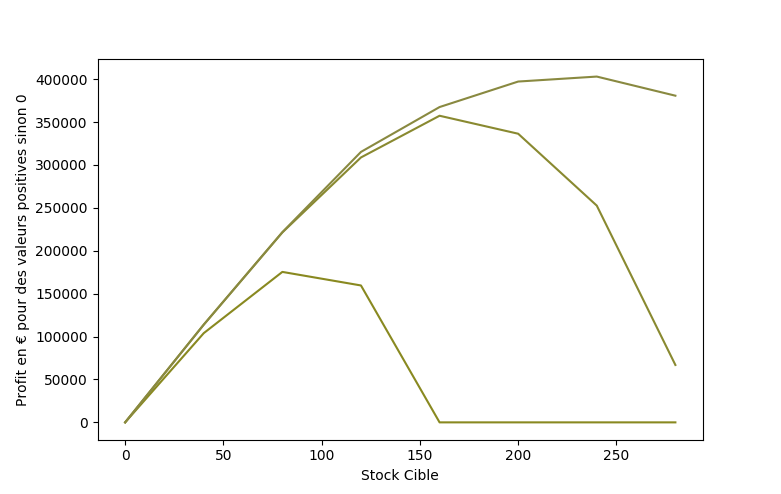
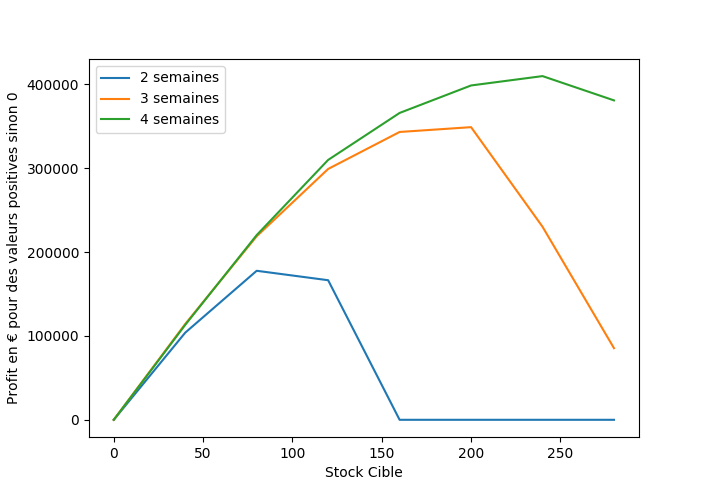
legends

diff --git a/simulation.py b/simulation.py
@@ -37,7 +37,9 @@ def prixToDemandeMoyenne(prix):
     #a=17719
     #p=-0.579
     if prix>0 :
-        volume=(float(prix)/17719)**(-1/0.579)#on a le volume par an
+        #volume=(float(prix)/17719)**(-1/0.579)#on a le volume par an
+        #volume=(prix/17719)**(-1.727) #aller plus vite?
+        volume=-1.727*(100/17719)**(-1.727-1)*(prix-100) + (100/17719)**(-1.727) #linéariser    
     else:
         volume=1
     #donc on divise par 52 pour l'avoir en semaine
@@ -61,6 +63,7 @@ def tabProduitMoinsDemande(tab,demande):
         if tab[-1-i]>demande:
             tab[-1-i]-=demande
             demande=0
+            break
         else:
             demande-=tab[-1-i]
             tab[-1-i]=0
@@ -116,7 +119,7 @@ def testtabProduitMoinsDemandeRabet():
     tab,demande=tabProduitMoinsDemandeRabet(tab)
     print(tab,demande)
 
-testtabProduitMoinsDemandeRabet()
+#testtabProduitMoinsDemandeRabet()
 
 
 class Stock:
@@ -304,7 +307,7 @@ def profitTabStockCible(nbSemaines,tabStockCible,mesDemandes):
 
 def simulationPousse():
 
-    tabStockCible=np.arange(0,500,30)
+    tabStockCible=np.arange(0,500,50)
     mu, sigma = 155, 60 # demande moyenne et equart type de la demande moyenne
 
     nbsemaine=10000
@@ -312,26 +315,27 @@ def simulationPousse():
     #mesDemandes[mesDemandes<0]=0
 
     '''#pour visualiser le service cible'''
-    # tabServiceSimule =simulerTabStockCible(nbsemaine,tabStockCible,mesDemandes)
-    # plt.plot(tabStockCible,tabServiceSimule,'co',label='taux de ServiceCible')
+    tabServiceSimule =simulerTabStockCible(nbsemaine,tabStockCible,mesDemandes)
+    plt.plot(tabStockCible,tabServiceSimule,'c',label='taux de ServiceCible')
     # plt.ylabel("Service Reel Simule")
     # plt.show()
 
     '''#pour les déchets'''
-    # dechets = dechetTabStockCible(nbsemaine,tabStockCible,mesDemandes)
-    # plt.plot(tabStockCible,dechets,'k',label='taux de Déchet')
+    dechets = dechetTabStockCible(nbsemaine,tabStockCible,mesDemandes)
+    plt.plot(tabStockCible,dechets,'k',label='taux de Déchet')
     # plt.ylabel("taux de déchet")
 
     '''#pour le profit'''
     profits = profitTabStockCible(nbsemaine,tabStockCible,mesDemandes)
-    plt.plot(tabStockCible,profits,'yo',label='taux de profit')
-    plt.ylabel("profit") 
+    plt.plot(tabStockCible,profits/np.amax(profits),'y',label='taux de profit')
+    plt.ylabel("taux") 
  
     plt.xlabel("Stock Cible")
 
     #plt.show() 
     #print(tabServiceSimule)
     #print(dechets)
+    plt.legend()
     plt.show()
 
     
@@ -409,12 +413,12 @@ def tauxCADperemptionRabais(pas=0):
 
 #tauxCADperemptionRabais(pas=0.2)
 
-def profitRabais(stockCible=300,ADrabais=0,Drabais=0,nbSemaine=100000,nbSemPermenption=4):
-#fonction qui montre l'évolution du profit lors de la variation du rabet sur al dernière semaine
+def profitRabais(stockCible=245,ADrabais=0,Drabais=0,nbSemaine=1000,nbSemPermenption=3):
+#fonction qui montre l'évolution du profit lors de la variation du rabet sur la dernière semaine
     semaineStock=np.zeros(nbSemPermenption)
     tabprofit=np.array([])
     #tabDrabais=np.arange(0,1,0.1)
-    tabDrabais=np.arange(0,0.02,0.002)
+    tabDrabais=np.arange(0,0.1,0.005)
     for r in tabDrabais:
         monStock=Stock(stockCible,semaineStock,dRabais=r)
         for s in range(nbSemaine):
@@ -432,12 +436,12 @@ def profitRabais(stockCible=300,ADrabais=0,Drabais=0,nbSemaine=100000,nbSemPerme
 
     print(tabprofit)
 
-#profitRabais()
+profitRabais()
 
 def dechetsSemaines(nbSemaineSimulation=3000):
 #OBJECTIF montrer l'evolution des déchets en fonction du
 #nombre de semaine de peremption et du stock cible
-    minSC,maxSC,pas=100,300,10
+    minSC,maxSC,pas=150,300,10
     stockCible=np.arange(minSC,maxSC,pas)
 
     minp,maxp,pasp=2,5,1
@@ -467,7 +471,10 @@ def dechetsSemaines(nbSemaineSimulation=3000):
     plt.show()'''
 
     for p in peremption:
-        plt.plot(stockCible,dechets[p-minp])
+        plt.plot(stockCible,dechets[p-minp],label= str(p) +" semaines")
+    plt.ylabel("part de déchet")
+    plt.xlabel("Stock Cible")
+    plt.legend()
     plt.show()
 
     return dechets
@@ -480,7 +487,7 @@ def profitsSemaines(nbSemaineSimulation=1000):
     minSC,maxSC,pas=0,300,40
     stockCible=np.arange(minSC,maxSC,pas)
 
-    minp,maxp,pasp=2,5,1
+    minp,maxp,pasp=2,5,1 #ce sont la longueur des stocks
     peremption=np.arange(minp,maxp,pasp)
     profit=np.zeros([len(peremption),len(stockCible)])
     profitR=np.zeros([len(peremption),len(stockCible)])
@@ -499,12 +506,13 @@ def profitsSemaines(nbSemaineSimulation=1000):
     for p in peremption:
         #mettre les valeurs négaties à zero avec .clip
         #plt.plot(stockCible,profit[p-minp].clip(min=0),color=('#0005'+str(p)+'0'))
-        plt.plot(stockCible,profitR[p-minp].clip(min=0),color=('#8989'+str(p)+'0'))
+        plt.plot(stockCible,profitR[p-minp].clip(min=0),label= str(p) +" semaines")
     plt.ylabel("Profit en € pour des valeurs positives sinon 0")
     plt.xlabel("Stock Cible")
+    plt.legend()
     plt.show()
 
     return profit
 
-profitsSemaines()
+#profitsSemaines()
 
